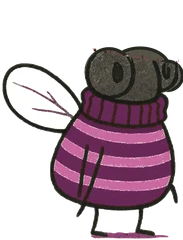
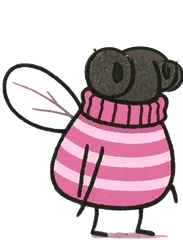
feat(thesis): simplify the fly hunt like the defence slide, sterile males in pink
Marine's request: keep the idea as simple as her slide so visitors get it.
One wild male in red and white stripes hides among released sterile males,
who wear pink, as sterile flies are marked pink. Look-alikes and leaf cover
are gone; the three levels are release sizes (1 wild for 20, 80, then 200
sterile), which is the point of the technique: the bigger the release, the
harder the wild male is to find.

diff --git a/src/components/fly-hunt/HuntControls.tsx b/src/components/fly-hunt/HuntControls.tsx
@@ -1,46 +1,45 @@
 "use client";
 
 import Image from "next/image";
-import { LEVELS, type Level } from "@/components/fly-hunt/scene";
+import { LEVELS } from "@/components/fly-hunt/scene";
 import { copy } from "@/i18n/config";
 import { useLang } from "@/i18n/client";
 import { cn } from "@/lib/utils/cn";
 
 const clock = (s: number) => `${Math.floor(s / 60)}:${String(s % 60).padStart(2, "0")}`;
-const ratio = (l: Level) => Math.round((l.flies - l.find) / l.find);
 
 export const HUNT_COPY = copy({
   fr: {
     kicker: "À vous de jouer",
-    task: (find: number, sterile: number) =>
-      `Vous êtes une femelle. Pour que vos œufs se développent, trouvez ${find === 1 ? "le mâle sauvage" : `les ${find} mâles sauvages`} : pull rayé rouge et blanc, bonnet rouge et blanc. Les lâchers ont rempli l'oranger de ${sterile} mâles stériles, et certains lui ressemblent\u00a0: bonnet sans le pull, pull sans le bonnet, rayures roses ou orange, bonnet bleu, pull rouge uni.`,
-    scene: "Un oranger rempli de mâles stériles en pull violet ; un mâle sauvage en pull rayé rouge et blanc, coiffé d'un bonnet, s'y cache.",
-    levels: "Niveau de difficulté",
+    task: (sterile: number) =>
+      `Vous êtes une femelle. Pour avoir des petits, il vous faut le mâle sauvage, en pull rayé rouge et blanc. Autour de lui, ${sterile} mâles stériles lâchés, en pull rose\u00a0: on marque les stériles en rose pour les reconnaître.`,
+    scene: "Un oranger rempli de mâles stériles en pull rose ; un mâle sauvage en pull rayé rouge et blanc, coiffé d'un bonnet, s'y cache.",
+    levels: "Taille du lâcher",
     wanted: "À trouver",
     wantedAlt: "Le mâle sauvage à trouver\u00a0: pull rayé rouge et blanc, bonnet rouge et blanc à pompon.",
-    level: (i: number) => `Niveau ${i + 1}`,
+    level: (i: number) => ["Petit lâcher", "Lâcher moyen", "Grand lâcher"][i],
     ratio: (n: number) => `1 sauvage pour ${n} stériles`,
-    count: (n: number, total: number) => `${n} sur ${total} trouvé${n > 1 ? "s" : ""}`,
+    status: (found: boolean): string => (found ? "Mâle sauvage trouvé" : "Pas encore trouvé"),
     misses: (n: number) => (n === 0 ? "aucune erreur" : `${n} erreur${n > 1 ? "s" : ""}`),
     reveal: "Montrer la réponse",
     again: "Nouvel arbre",
-    done: "C'est tout l'enjeu de la technique de l'insecte stérile. En lâchant bien plus de mâles stériles qu'il n'y a de mâles sauvages, on rend le mâle sauvage difficile à trouver pour les femelles, et la plupart de leurs accouplements ne donnent aucune descendance. Encore faut-il que les mâles lâchés soient vraiment stériles et assez compétitifs face aux sauvages\u00a0: ce sont ces limites que la thèse examine.",
+    done: "C'est le principe de la technique de l'insecte stérile\u00a0: plus on lâche de mâles stériles, plus le mâle sauvage est difficile à trouver pour les femelles, et la plupart de leurs accouplements ne donnent aucune descendance. Encore faut-il que les mâles lâchés soient vraiment stériles et assez compétitifs face aux sauvages\u00a0: ce sont ces limites que la thèse examine.",
   },
   en: {
     kicker: "Your turn",
-    task: (find: number, sterile: number) =>
-      `You are a female. For your eggs to develop, find ${find === 1 ? "the wild male" : `the ${find} wild males`}: red and white striped jumper, red and white bobble hat. Releases have filled the orange tree with ${sterile} sterile males, and some look like him: the hat without the jumper, the jumper without the hat, pink or orange stripes, a blue hat, a plain red jumper.`,
-    scene: "An orange tree filled with sterile males in purple jumpers; one wild male in red and white stripes and a bobble hat is hiding among them.",
-    levels: "Difficulty",
+    task: (sterile: number) =>
+      `You are a female. To have offspring, you need the wild male, in a red and white striped jumper. Around him are ${sterile} released sterile males in pink jumpers: sterile males are marked pink so they can be told apart.`,
+    scene: "An orange tree filled with sterile males in pink jumpers; one wild male in red and white stripes and a bobble hat is hiding among them.",
+    levels: "Release size",
     wanted: "Find him",
     wantedAlt: "The wild male to find: red and white striped jumper, red and white bobble hat.",
-    level: (i: number) => `Level ${i + 1}`,
+    level: (i: number) => ["Small release", "Medium release", "Large release"][i],
     ratio: (n: number) => `1 wild for ${n} sterile`,
-    count: (n: number, total: number) => `${n} of ${total} found`,
+    status: (found: boolean) => (found ? "Wild male found" : "Not found yet"),
     misses: (n: number) => (n === 0 ? "no mistakes" : `${n} mistake${n > 1 ? "s" : ""}`),
     reveal: "Show the answer",
     again: "New tree",
-    done: "That is the whole point of the sterile insect technique. By releasing far more sterile males than there are wild ones, the wild male becomes hard for females to find, and most of their matings produce no offspring. The released males still have to be truly sterile and compete well with the wild ones: these are the limits the thesis examines.",
+    done: "That is the principle of the sterile insect technique: the more sterile males are released, the harder the wild male is for females to find, and most of their matings produce no offspring. The released males still have to be truly sterile and compete well with the wild ones: these are the limits the thesis examines.",
   },
 });
 
@@ -70,7 +69,7 @@ export function HuntLevels({ current, onPick }: { current: number; onPick: (i: n
           className={cn(BUTTON, "flex-col items-start py-1.5 text-left", i === current ? "border-ink bg-ink text-paper" : "border-ink/50 hover:border-ink")}
         >
           <span>{t.level(i)}</span>
-          <span className={cn("text-xs", i === current ? "text-paper/75" : "text-muted")}>{t.ratio(ratio(l))}</span>
+          <span className={cn("text-xs", i === current ? "text-paper/75" : "text-muted")}>{t.ratio(l.sterile)}</span>
         </button>
       ))}
     </div>
@@ -78,15 +77,15 @@ export function HuntLevels({ current, onPick }: { current: number; onPick: (i: n
 }
 
 type Score = { found: number[]; misses: number; seconds: number; over: boolean };
-type StatusProps = { level: Level; hunt: Score; actions: { reveal: () => void; restart: () => void } };
+type StatusProps = { hunt: Score; actions: { reveal: () => void; restart: () => void } };
 
-/** The count is announced; the clock is not, or a screen reader would read it every second. */
-export function HuntStatus({ level, hunt, actions }: StatusProps) {
+/** The status is announced; the clock is not, or a screen reader would read it every second. */
+export function HuntStatus({ hunt, actions }: StatusProps) {
   const t = HUNT_COPY[useLang()];
   return (
     <div className="flex flex-wrap items-center justify-between gap-3">
       <p className="flex flex-wrap gap-x-4 text-sm tabular-nums">
-        <span aria-live="polite">{t.count(hunt.found.length, level.find)}</span>
+        <span aria-live="polite">{t.status(hunt.found.length > 0)}</span>
         <span className="text-muted">{clock(hunt.seconds)}</span>
         <span className="text-muted">{t.misses(hunt.misses)}</span>
       </p>

diff --git a/tests/unit/fly-hunt.test.tsx b/tests/unit/fly-hunt.test.tsx
@@ -11,31 +11,22 @@ describe("fly hunt scene", () => {
     expect(buildScene(2).flies).not.toEqual(buildScene(1).flies);
   });
 
-  it("hides the level's wild male among look-alikes and sterile males", () => {
+  it("hides one wild male among the release's sterile males", () => {
     LEVELS.forEach((level, i) => {
       const { flies } = buildScene(i + 3, level);
-      expect(flies).toHaveLength(level.flies);
-      expect(flies.filter((f) => f.kind === "wild")).toHaveLength(level.find);
-      for (const [kind, n] of Object.entries(level.decoys)) expect(flies.filter((f) => f.kind === kind)).toHaveLength(n);
+      expect(flies.filter((f) => f.kind === "wild")).toHaveLength(1);
+      expect(flies.filter((f) => f.kind === "sterile")).toHaveLength(level.sterile);
     });
   });
 
-  it("gets harder with each level: rarer, smaller, more look-alikes, more cover", () => {
-    const share = LEVELS.map((l) => l.find / l.flies);
-    const decoys = LEVELS.map((l) => Object.values(l.decoys).reduce((a, b) => a + b, 0));
-    expect(share).toEqual([...share].sort((a, b) => b - a));
+  it("gets harder with bigger releases: more sterile males, smaller flies", () => {
+    expect(LEVELS.map((l) => l.sterile)).toEqual([...LEVELS.map((l) => l.sterile)].sort((a, b) => a - b));
     expect(LEVELS.map((l) => l.size)).toEqual([...LEVELS.map((l) => l.size)].sort((a, b) => b - a));
-    expect(decoys).toEqual([...decoys].sort((a, b) => a - b));
-    expect(LEVELS.map((l) => l.cover)).toEqual([0, 1, 2]);
   });
 
-  it("covers the wild male's jumper on hard levels, never his hat", () => {
+  it("never lays a leaf over the wild male", () => {
     const [f] = wildOf(7, LEVELS[2]);
-    const close = buildScene(7, LEVELS[2]).front.filter((l) => Math.hypot(f.x - l.x, f.y - l.y) < 16);
-    expect(close).toHaveLength(LEVELS[2].cover);
-    for (const l of close) expect(l.y).toBeGreaterThan(f.y);
-    const [easy] = wildOf(7, LEVELS[0]);
-    expect(buildScene(7, LEVELS[0]).front.filter((l) => Math.hypot(easy.x - l.x, easy.y - l.y) < 16)).toHaveLength(0);
+    for (const l of buildScene(7, LEVELS[2]).front) expect(Math.hypot(f.x - l.x, f.y - l.y)).toBeGreaterThanOrEqual(16);
   });
 });
 
@@ -43,39 +34,39 @@ const flyEl = (container: HTMLElement, id: number) => container.querySelector(`[
 
 describe("FlyHunt", () => {
   afterEach(() => vi.useRealTimers());
-  const target = wildOf(1).map((f) => f.id);
-  const other = buildScene(1).flies.find((f) => f.kind !== "wild")!.id;
+  const [target] = wildOf(1);
+  const sterile = buildScene(1).flies.find((f) => f.kind === "sterile")!.id;
 
-  it("counts the wild male once, and a sterile male as a mistake", () => {
+  it("counts a sterile male as a mistake and stops at the wild male", () => {
     const { container } = render(<FlyHunt />);
-    fireEvent.click(flyEl(container, other));
-    expect(screen.getByText("0 sur 1 trouvé")).toBeInTheDocument();
+    fireEvent.click(flyEl(container, sterile));
+    expect(screen.getByText("Pas encore trouvé")).toBeInTheDocument();
     expect(screen.getByText("1 erreur")).toBeInTheDocument();
-    fireEvent.click(flyEl(container, target[0]));
-    fireEvent.click(flyEl(container, target[0]));
-    expect(screen.getByText("1 sur 1 trouvé")).toBeInTheDocument();
+    fireEvent.click(flyEl(container, target.id));
+    expect(screen.getByText("Mâle sauvage trouvé")).toBeInTheDocument();
+    fireEvent.click(flyEl(container, sterile));
     expect(screen.getByText("1 erreur")).toBeInTheDocument();
   });
 
-  it("starts the clock at the first click and stops it once all are found", () => {
+  it("starts the clock at the first click and stops it once he is found", () => {
     vi.useFakeTimers();
     const { container } = render(<FlyHunt />);
     act(() => vi.advanceTimersByTime(5000));
     expect(screen.getByText("0:00")).toBeInTheDocument();
-    fireEvent.click(flyEl(container, other));
+    fireEvent.click(flyEl(container, sterile));
     act(() => vi.advanceTimersByTime(3000));
-    fireEvent.click(flyEl(container, target[0]));
+    fireEvent.click(flyEl(container, target.id));
     act(() => vi.advanceTimersByTime(5000));
     expect(screen.getByText("0:03")).toBeInTheDocument();
-    expect(screen.getByText(/on rend le mâle sauvage difficile à trouver/)).toBeInTheDocument();
+    expect(screen.getByText(/plus on lâche de mâles stériles/)).toBeInTheDocument();
   });
 
-  it("switches level and deals a new tree with a fresh score", () => {
+  it("switches release size and deals a new tree with a fresh score", () => {
     const { container } = render(<FlyHunt />);
-    fireEvent.click(flyEl(container, other));
-    fireEvent.click(screen.getByRole("button", { name: /Niveau 3/ }));
+    fireEvent.click(flyEl(container, sterile));
+    fireEvent.click(screen.getByRole("button", { name: /Grand lâcher/ }));
     expect(screen.getByText("aucune erreur")).toBeInTheDocument();
-    expect(container.querySelectorAll("[data-fly]")).toHaveLength(LEVELS[2].flies);
+    expect(container.querySelectorAll("[data-fly]")).toHaveLength(LEVELS[2].sterile + 1);
   });
 
   it("shows the fly to find in the corner of the tree", () => {
@@ -84,10 +75,10 @@ describe("FlyHunt", () => {
     expect(screen.getByRole("img", { name: /Le mâle sauvage à trouver/ })).toHaveAttribute("src", expect.stringContaining("wild.webp"));
   });
 
-  it("can show the answer without finding them", () => {
+  it("can show the answer without finding him", () => {
     const { container } = render(<FlyHunt />);
     fireEvent.click(screen.getByRole("button", { name: "Montrer la réponse" }));
-    expect(container.querySelectorAll(".fh-ring")).toHaveLength(LEVELS[0].find);
+    expect(container.querySelectorAll(".fh-ring")).toHaveLength(1);
     expect(screen.queryByRole("button", { name: "Montrer la réponse" })).not.toBeInTheDocument();
   });
 });

diff --git a/src/components/fly-hunt/scene.ts b/src/components/fly-hunt/scene.ts
@@ -1,29 +1,23 @@
 import { mulberry32 } from "@/lib/utils/random";
 
 /**
- * Layout of the fly hunt: an orange tree flooded with released sterile males,
- * with one wild male hidden among them and sterile look-alikes that share one
- * of his marks. The female's goal is to find him: only with him do her eggs develop. Everything comes from a seed and a level, so the server and the
- * browser draw the same tree and "new game" is a new seed.
+ * Layout of the fly hunt, as simple as the thesis defence slide: an orange
+ * tree flooded with released sterile males, marked pink, and one wild male in
+ * red and white stripes hidden among them. The female's goal is to find him:
+ * only with him do her eggs develop. Everything comes from a seed and a level,
+ * so the server and the browser draw the same tree and "new tree" is a new seed.
  */
 export const VIEW = { w: 800, h: 500 };
 
-/**
- * wild: the male to find, red and white stripes and a red and white hat.
- * sterile: the released males in purple. Each look-alike gets one of his two
- * marks wrong: the hat on a purple jumper, the jumper without a hat, pink or
- * orange stripes, a navy hat, or a plain red jumper.
- */
-export type FlyKind = "wild" | "sterile" | "hat" | "stripes" | "pink" | "orange" | "navy" | "plain";
-type Decoy = Exclude<FlyKind, "wild" | "sterile">;
-/** `cover`: leaves laid over the wild male's jumper, so only his hat and a few stripes show. */
-export type Level = { find: number; flies: number; decoys: Partial<Record<Decoy, number>>; size: number; cover: number };
+export type FlyKind = "wild" | "sterile";
+/** A release: how many sterile males share the tree with the one wild male, and how small they all are. */
+export type Level = { sterile: number; size: number };
 
-/** One wild male per tree; each level releases more sterile males and look-alikes, and shrinks them all. */
+/** Bigger releases make the wild male harder to find; that is the whole idea of the technique. */
 export const LEVELS: Level[] = [
-  { find: 1, flies: 110, decoys: { hat: 12, stripes: 10, pink: 8, orange: 6 }, size: 0.56, cover: 0 },
-  { find: 1, flies: 160, decoys: { hat: 16, stripes: 14, pink: 12, orange: 10, navy: 8 }, size: 0.48, cover: 1 },
-  { find: 1, flies: 210, decoys: { hat: 22, stripes: 18, pink: 14, orange: 14, navy: 12, plain: 10 }, size: 0.42, cover: 2 },
+  { sterile: 20, size: 0.8 },
+  { sterile: 80, size: 0.6 },
+  { sterile: 200, size: 0.44 },
 ];
 
 export type Blob = { x: number; y: number; r: number; tone: number; rot: number };
@@ -62,41 +56,23 @@ function flySpot(rand: Rand, taken: Point[], gap: number): Point {
   return p;
 }
 
-/** Kinds in a shuffled order: the wild male first, then each look-alike, then the sterile males. */
-function kindsFor(rand: Rand, level: Level): FlyKind[] {
-  const kinds: FlyKind[] = [...Array<FlyKind>(level.find).fill("wild")];
-  for (const [kind, n] of Object.entries(level.decoys) as [Decoy, number][]) kinds.push(...Array<FlyKind>(n).fill(kind));
-  while (kinds.length < level.flies) kinds.push("sterile");
-  for (let i = kinds.length - 1; i > 0; i--) {
-    const j = Math.floor(rand() * (i + 1));
-    [kinds[i], kinds[j]] = [kinds[j], kinds[i]];
-  }
-  return kinds;
-}
-
 function placeFlies(rand: Rand, level: Level): FlyPos[] {
+  const wildId = Math.floor(rand() * (level.sterile + 1));
   const flies: FlyPos[] = [];
-  kindsFor(rand, level).forEach((kind, id) => {
+  for (let id = 0; id <= level.sterile; id++) {
+    const kind: FlyKind = id === wildId ? "wild" : "sterile";
     const s = r1(level.size * (kind === "wild" ? 0.95 : 0.9 + rand() * 0.3));
     // the wild male is never at the very back, so another fly can only hide part of him
     const pose = { rot: Math.round(rand() * 50 - 25), flip: rand() < 0.5, z: kind === "wild" ? 0.5 + rand() / 2 : rand() };
     flies.push({ id, ...flySpot(rand, flies, 44 * level.size), s, ...pose, kind });
-  });
+  }
   return flies;
 }
 
-/**
- * Leaves in front of the flies hide some of them in part. Scattered leaves keep
- * off the wild male; on harder levels a few are laid on his jumper on purpose,
- * below the hat, so he is never hidden entirely.
- */
-function frontLeaves(rand: Rand, flies: FlyPos[], cover: number) {
-  const targets = flies.filter((f) => f.kind === "wild");
-  const scattered = blobs(rand, 60, INNER, [9, 13], 2).filter((l) => !targets.some((f) => near(f, l, 16)));
-  // lying almost flat across the jumper (fly units: the body is centred 6 below the origin, the hat 30 above)
-  const lay = (f: FlyPos, i: number): Blob => ({ x: r1(f.x + (i ? 6 : -6) * f.s), y: r1(f.y + (8 + rand() * 8) * f.s), r: r1(26 * f.s), tone: i % 2, rot: Math.round(rand() * 50 - 25) });
-  const laid = targets.flatMap((f) => Array.from({ length: cover }, (_, i) => lay(f, i)));
-  return [...scattered, ...laid];
+/** Leaves in front of the flies hide some of them in part, never the wild male. */
+function frontLeaves(rand: Rand, flies: FlyPos[]) {
+  const wild = flies.filter((f) => f.kind === "wild");
+  return blobs(rand, 60, INNER, [9, 13], 2).filter((l) => !wild.some((f) => near(f, l, 16)));
 }
 
 export function buildScene(seed: number, level: Level = LEVELS[0]): Scene {
@@ -107,7 +83,7 @@ export function buildScene(seed: number, level: Level = LEVELS[0]): Scene {
     leaves: blobs(rand, 110, INNER, [8, 11], 3),
     fruits: Array.from({ length: 56 }, () => ({ ...inEllipse(rand, PERCH), r: r1(11 + rand() * 6), lemon: rand() < 0.3, z: rand() })),
     flies,
-    front: frontLeaves(rand, flies, level.cover),
+    front: frontLeaves(rand, flies),
     flowers: Array.from({ length: 44 }, () => ({ x: r1(10 + rand() * 780), y: r1(430 + rand() * 62), r: r1(2.5 + rand() * 2), tone: Math.floor(rand() * 4), rot: 0 })),
   };
 }

diff --git a/src/components/fly-hunt/FlyHunt.tsx b/src/components/fly-hunt/FlyHunt.tsx
@@ -26,7 +26,7 @@ function useHunt(level: Level, seed: number) {
   const [hops, setHops] = useState<Record<number, number>>({});
   const [revealed, setRevealed] = useState(false);
   const misses = Object.values(hops).reduce((a, b) => a + b, 0);
-  const over = revealed || found.length === level.find;
+  const over = revealed || found.length > 0;
   const seconds = useClock(!over && found.length + misses > 0);
 
   const pick = (e: MouseEvent<SVGSVGElement>) => {
@@ -95,7 +95,7 @@ function HuntGame({ level, seed, onRestart }: { level: Level; seed: number; onRe
   return (
     <div ref={ref} className="space-y-4">
       <HuntBoard hunt={hunt} className={cn(play && "fh-buzz", hunt.over && "fh-over")} />
-      <HuntStatus level={level} hunt={hunt} actions={{ reveal: hunt.reveal, restart: onRestart }} />
+      <HuntStatus hunt={hunt} actions={{ reveal: hunt.reveal, restart: onRestart }} />
       {hunt.over && <p className="text-note max-w-2xl leading-relaxed">{t.done}</p>}
     </div>
   );
@@ -104,7 +104,7 @@ function HuntGame({ level, seed, onRestart }: { level: Level; seed: number; onRe
 /**
  * Play the female: find the one wild male in an orange tree flooded with
  * released sterile males, after the drawings of the thesis defence. Three
- * levels: more sterile males, more look-alikes, smaller flies.
+ * release sizes: the more sterile males, the harder he is to find.
  */
 export function FlyHunt() {
   const t = HUNT_COPY[useLang()];
@@ -115,7 +115,7 @@ export function FlyHunt() {
     <div className="space-y-4">
       <div>
         <p className="label text-accent-deep">{t.kicker}</p>
-        <p className="text-note mt-1 max-w-2xl leading-relaxed">{t.task(level.find, level.flies - level.find)}</p>
+        <p className="text-note mt-1 max-w-2xl leading-relaxed">{t.task(level.sterile)}</p>
       </div>
       <HuntLevels current={levelIndex} onPick={setLevelIndex} />
       <HuntGame key={`${levelIndex}-${seed}`} level={level} seed={seed} onRestart={() => setSeed((s) => s + 1)} />

diff --git a/docs/DESIGN_SYSTEM.md b/docs/DESIGN_SYSTEM.md
@@ -63,6 +63,6 @@ Couche « éditoriale cinématique » (anime.js, `useAnimeScope` qui ne s'exécu
 | Bandes colorées qui s'ouvrent au défilement | `SectionFlow` | accueil |
 | Transitions de page et titre qui se transforme de la liste à la fiche | `<ViewTransition>` de React (layout, `PageHeader morphName`) | navigation interne |
 
-Sous deux publications, une animation ou un jeu : l'aquarium complet (`FishPanel` : densité de proies, captures par banc, liens vers l'article) sous l'article sur la réponse fonctionnelle, et la chasse au mâle sauvage (`FlyHunt`, `src/app/fly-hunt.css`) sous la thèse. Le joueur est une femelle qui cherche l'unique mâle sauvage (pull rayé rouge et blanc, bonnet) dans un oranger inondé de mâles stériles, comme lors d'un lâcher. Toutes les mouches sont le dessin de la soutenance (`public/figures/fly`) : l'original pour le mâle sauvage, le même dessin recoloré ou sans bonnet pour les stériles et les sosies. Trois niveaux (de 1 sauvage pour 109 stériles à 1 pour 209), six sortes de sosies (bonnet sans le pull, pull sans le bonnet, rayures roses ou orange, bonnet bleu, pull rouge uni), des feuilles posées sur son pull aux niveaux 2 et 3, une vignette « À trouver » dans le coin, un chronomètre et un compte d'erreurs. Les mouches se dandinent une fois à l'entrée dans l'écran puis au survol ; mouvement réduit : tout reste immobile.
+Sous deux publications, une animation ou un jeu : l'aquarium complet (`FishPanel` : densité de proies, captures par banc, liens vers l'article) sous l'article sur la réponse fonctionnelle, et la chasse au mâle sauvage (`FlyHunt`, `src/app/fly-hunt.css`) sous la thèse, aussi simple que la diapositive de soutenance. Le joueur est une femelle qui cherche l'unique mâle sauvage (pull rayé rouge et blanc, bonnet) parmi les mâles stériles lâchés, en pull rose comme le marquage des stériles. Les deux mouches sont le dessin de la soutenance (`public/figures/fly`) : l'original pour le sauvage, le même dessin en rose et sans bonnet pour les stériles. Trois tailles de lâcher (1 sauvage pour 20, 80 puis 200 stériles, mouches de plus en plus petites), une vignette « À trouver » dans le coin, un chronomètre et un compte d'erreurs. Les mouches se dandinent une fois à l'entrée dans l'écran puis au survol ; mouvement réduit : tout reste immobile.
 
 Sans JavaScript, les titres réapparaissent après 2,5 s (`kinetic-failsafe`) et le rail reste une liste verticale.
